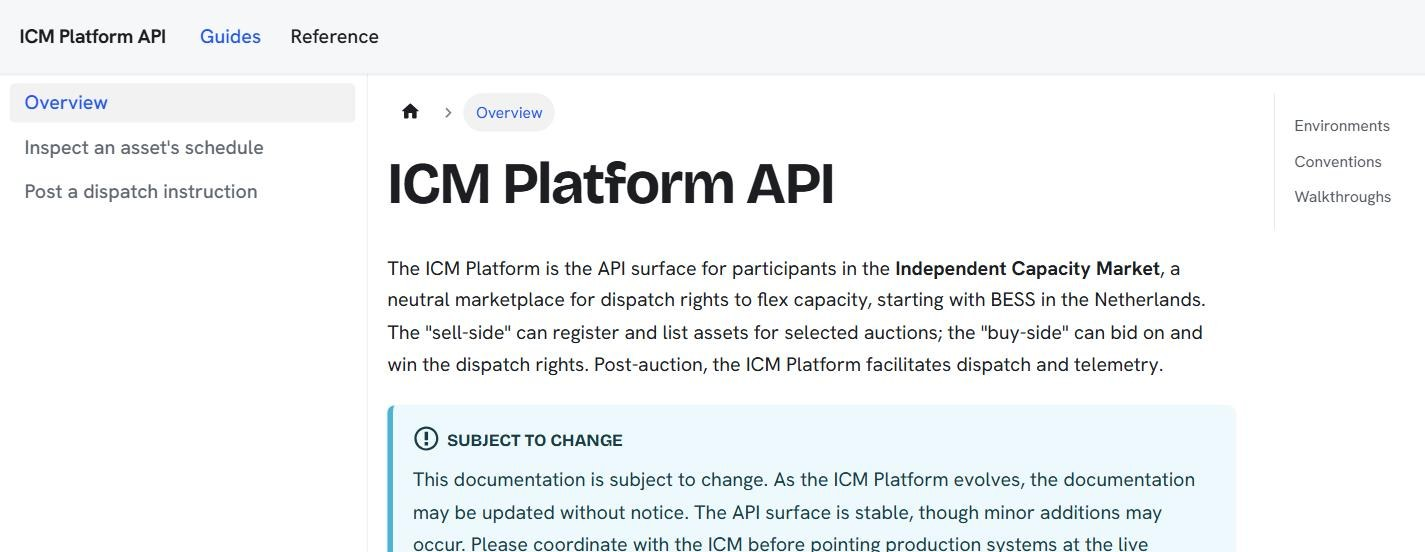
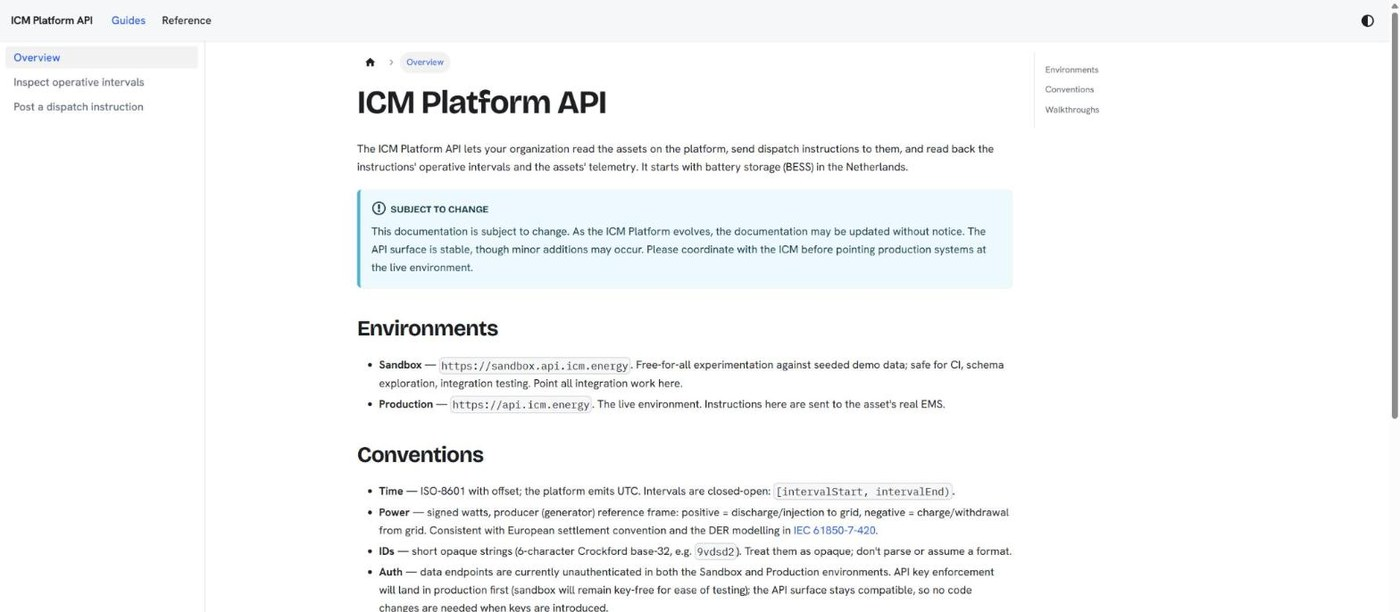
Resources: equal-height cards, fresh API docs screenshot
Claude-Session: https://claude.ai/code/session_012WVufrcvqibRwWTiJko1GV

diff --git a/resources/index.html b/resources/index.html
@@ -17,7 +17,7 @@
 <link rel="preconnect" href="https://fonts.googleapis.com">
 <link rel="preconnect" href="https://fonts.gstatic.com" crossorigin>
 <link href="https://fonts.googleapis.com/css2?family=Figtree:ital,wght@0,400;0,500;0,600;0,700;1,400&display=swap" rel="stylesheet">
-<link rel="stylesheet" href="/styles.css?v=091aae08">
+<link rel="stylesheet" href="/styles.css?v=3b11f27b">
 </head>
 <body>
 <a class="sr-only" href="#main">Skip to content</a>
@@ -49,11 +49,11 @@
     <section class="res-sec">
       <h2>Documents</h2>
       <p class="res-lead">Read our API documents. Anything missing? Just ask.</p>
-      <div class="res-card res-thumb"><img src="/assets/brand/thumb-api.jpg" alt="" width="1425" height="552" loading="lazy"><div><span>API documents</span><small>Guides and reference for the ICM Platform API</small></div><a class="btn btn-lilac" href="https://docs.icm.energy/" target="_blank" rel="noopener">Access →</a></div>
+      <div class="res-card res-thumb"><img src="/assets/brand/thumb-api.jpg" alt="" width="1400" height="612" loading="lazy"><div><span>API documents</span><small>Guides and reference for the ICM Platform API</small></div><a class="btn btn-lilac" href="https://docs.icm.energy/" target="_blank" rel="noopener">Access →</a></div>
     </section>
     <section class="res-sec">
       <h2>Brand assets</h2>
-      <p class="res-lead">Download the official logos of the ICM for a consistent representation in your designs and communications.</p>
+      <p class="res-lead">Download the official logos of the ICM.</p>
       <div class="res-card res-thumb"><img src="/assets/brand/thumb-logos.jpg" alt="" width="640" height="360" loading="lazy"><div><span>Logos</span><small>PNG and SVG, header and footer versions</small></div><a class="btn btn-lilac" href="/assets/brand/ICM-logos.zip" download>Download →</a></div>
     </section>
   </div>

diff --git a/styles.css b/styles.css
@@ -886,3 +886,7 @@ h1, h2, h3 { letter-spacing: -0.025em; font-weight: 700; }
 @media (min-width: 801px) { .res-cols .res-lead { min-height: 3.4em; } }
 .res-cols .res-card { height: auto; }
 @media (min-width: 801px) and (max-width: 1100px) { .res-cols .res-lead { min-height: 4.9em; } }
+.res-cols { align-items: stretch; }
+.res-cols .res-sec { display: flex; flex-direction: column; }
+.res-cols .res-card { flex: 1; }
+.res-cols .res-thumb img { aspect-ratio: 16 / 7; object-fit: cover; object-position: top left; }

diff --git a/company/index.html b/company/index.html
@@ -17,7 +17,7 @@
 <link rel="preconnect" href="https://fonts.googleapis.com">
 <link rel="preconnect" href="https://fonts.gstatic.com" crossorigin>
 <link href="https://fonts.googleapis.com/css2?family=Figtree:ital,wght@0,400;0,500;0,600;0,700;1,400&display=swap" rel="stylesheet">
-<link rel="stylesheet" href="/styles.css?v=091aae08">
+<link rel="stylesheet" href="/styles.css?v=3b11f27b">
 <script type="application/ld+json">
 {
  "@context": "https://schema.org",

diff --git a/index.html b/index.html
@@ -17,7 +17,7 @@
 <link rel="preconnect" href="https://fonts.googleapis.com">
 <link rel="preconnect" href="https://fonts.gstatic.com" crossorigin>
 <link href="https://fonts.googleapis.com/css2?family=Figtree:ital,wght@0,400;0,500;0,600;0,700;1,400&display=swap" rel="stylesheet">
-<link rel="stylesheet" href="/styles.css?v=091aae08">
+<link rel="stylesheet" href="/styles.css?v=3b11f27b">
 <script type="application/ld+json">
 {
  "@context": "https://schema.org",

diff --git a/bess-backtest/index.html b/bess-backtest/index.html
@@ -17,7 +17,7 @@
 <link rel="preconnect" href="https://fonts.googleapis.com">
 <link rel="preconnect" href="https://fonts.gstatic.com" crossorigin>
 <link href="https://fonts.googleapis.com/css2?family=Figtree:ital,wght@0,400;0,500;0,600;0,700;1,400&display=swap" rel="stylesheet">
-<link rel="stylesheet" href="/styles.css?v=091aae08">
+<link rel="stylesheet" href="/styles.css?v=3b11f27b">
 </head>
 <body>
 <a class="sr-only" href="#main">Skip to content</a>

diff --git a/bess-broker/index.html b/bess-broker/index.html
@@ -17,7 +17,7 @@
 <link rel="preconnect" href="https://fonts.googleapis.com">
 <link rel="preconnect" href="https://fonts.gstatic.com" crossorigin>
 <link href="https://fonts.googleapis.com/css2?family=Figtree:ital,wght@0,400;0,500;0,600;0,700;1,400&display=swap" rel="stylesheet">
-<link rel="stylesheet" href="/styles.css?v=091aae08">
+<link rel="stylesheet" href="/styles.css?v=3b11f27b">
 </head>
 <body>
 <a class="sr-only" href="#main">Skip to content</a>

diff --git a/bess-configurator/index.html b/bess-configurator/index.html
@@ -17,7 +17,7 @@
 <link rel="preconnect" href="https://fonts.googleapis.com">
 <link rel="preconnect" href="https://fonts.gstatic.com" crossorigin>
 <link href="https://fonts.googleapis.com/css2?family=Figtree:ital,wght@0,400;0,500;0,600;0,700;1,400&display=swap" rel="stylesheet">
-<link rel="stylesheet" href="/styles.css?v=091aae08">
+<link rel="stylesheet" href="/styles.css?v=3b11f27b">
 </head>
 <body>
 <a class="sr-only" href="#main">Skip to content</a>

diff --git a/privacy/index.html b/privacy/index.html
@@ -17,7 +17,7 @@
 <link rel="preconnect" href="https://fonts.googleapis.com">
 <link rel="preconnect" href="https://fonts.gstatic.com" crossorigin>
 <link href="https://fonts.googleapis.com/css2?family=Figtree:ital,wght@0,400;0,500;0,600;0,700;1,400&display=swap" rel="stylesheet">
-<link rel="stylesheet" href="/styles.css?v=091aae08">
+<link rel="stylesheet" href="/styles.css?v=3b11f27b">
 </head>
 <body>
 <a class="sr-only" href="#main">Skip to content</a>

diff --git a/solutions/index.html b/solutions/index.html
@@ -17,7 +17,7 @@
 <link rel="preconnect" href="https://fonts.googleapis.com">
 <link rel="preconnect" href="https://fonts.gstatic.com" crossorigin>
 <link href="https://fonts.googleapis.com/css2?family=Figtree:ital,wght@0,400;0,500;0,600;0,700;1,400&display=swap" rel="stylesheet">
-<link rel="stylesheet" href="/styles.css?v=091aae08">
+<link rel="stylesheet" href="/styles.css?v=3b11f27b">
 </head>
 <body>
 <a class="sr-only" href="#main">Skip to content</a>

diff --git a/talk-to-us/index.html b/talk-to-us/index.html
@@ -17,7 +17,7 @@
 <link rel="preconnect" href="https://fonts.googleapis.com">
 <link rel="preconnect" href="https://fonts.gstatic.com" crossorigin>
 <link href="https://fonts.googleapis.com/css2?family=Figtree:ital,wght@0,400;0,500;0,600;0,700;1,400&display=swap" rel="stylesheet">
-<link rel="stylesheet" href="/styles.css?v=091aae08">
+<link rel="stylesheet" href="/styles.css?v=3b11f27b">
 </head>
 <body>
 <a class="sr-only" href="#main">Skip to content</a>

diff --git a/terms/index.html b/terms/index.html
@@ -17,7 +17,7 @@
 <link rel="preconnect" href="https://fonts.googleapis.com">
 <link rel="preconnect" href="https://fonts.gstatic.com" crossorigin>
 <link href="https://fonts.googleapis.com/css2?family=Figtree:ital,wght@0,400;0,500;0,600;0,700;1,400&display=swap" rel="stylesheet">
-<link rel="stylesheet" href="/styles.css?v=091aae08">
+<link rel="stylesheet" href="/styles.css?v=3b11f27b">
 </head>
 <body>
 <a class="sr-only" href="#main">Skip to content</a>

diff --git a/_build/build.py b/_build/build.py
@@ -344,11 +344,11 @@ def resources(t):
     <section class="res-sec">
       <h2>Documents</h2>
       <p class="res-lead">Read our API documents. Anything missing? Just ask.</p>
-      <div class="res-card res-thumb"><img src="/assets/brand/thumb-api.jpg" alt="" width="1425" height="552" loading="lazy"><div><span>API documents</span><small>Guides and reference for the ICM Platform API</small></div><a class="btn btn-lilac" href="https://docs.icm.energy/" target="_blank" rel="noopener">Access →</a></div>
+      <div class="res-card res-thumb"><img src="/assets/brand/thumb-api.jpg" alt="" width="1400" height="612" loading="lazy"><div><span>API documents</span><small>Guides and reference for the ICM Platform API</small></div><a class="btn btn-lilac" href="https://docs.icm.energy/" target="_blank" rel="noopener">Access →</a></div>
     </section>
     <section class="res-sec">
       <h2>Brand assets</h2>
-      <p class="res-lead">Download the official logos of the ICM for a consistent representation in your designs and communications.</p>
+      <p class="res-lead">Download the official logos of the ICM.</p>
       <div class="res-card res-thumb"><img src="/assets/brand/thumb-logos.jpg" alt="" width="640" height="360" loading="lazy"><div><span>Logos</span><small>PNG and SVG, header and footer versions</small></div><a class="btn btn-lilac" href="/assets/brand/ICM-logos.zip" download>Download →</a></div>
     </section>
   </div>
